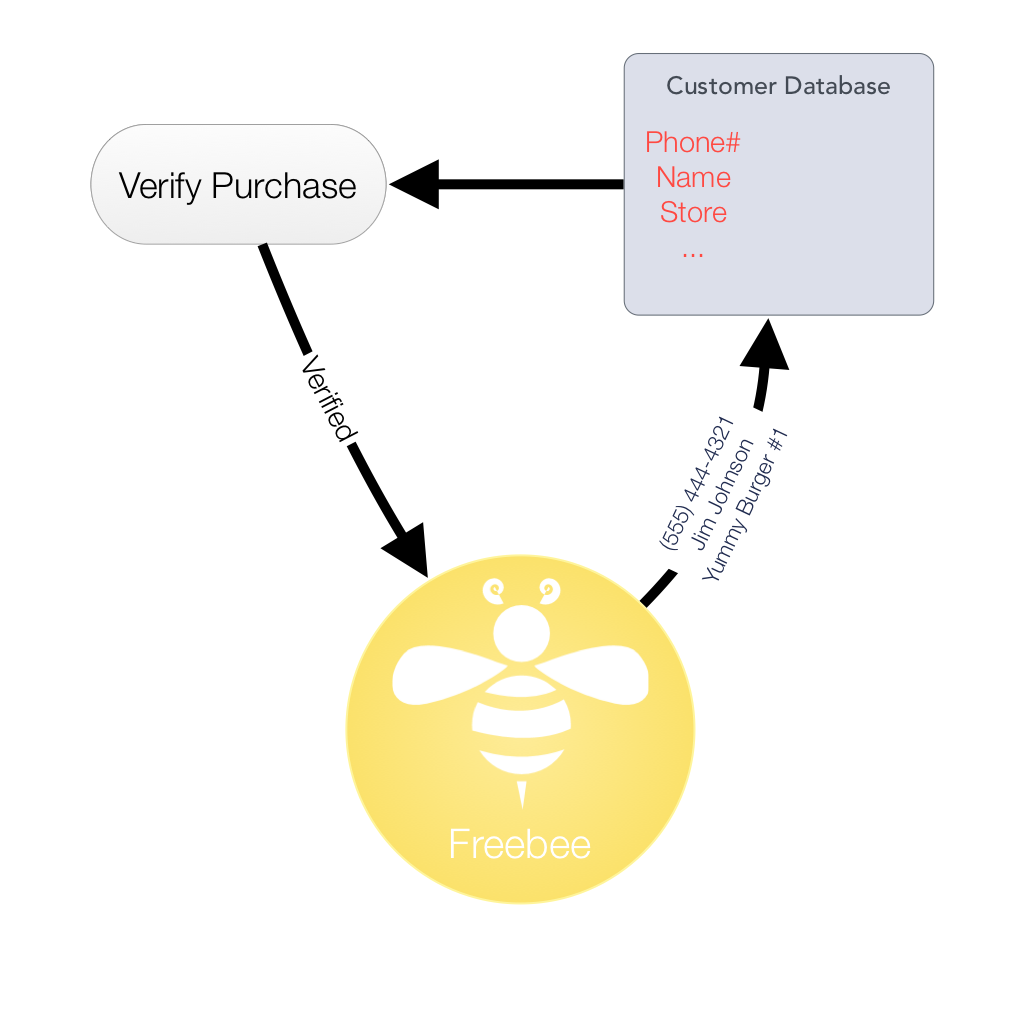
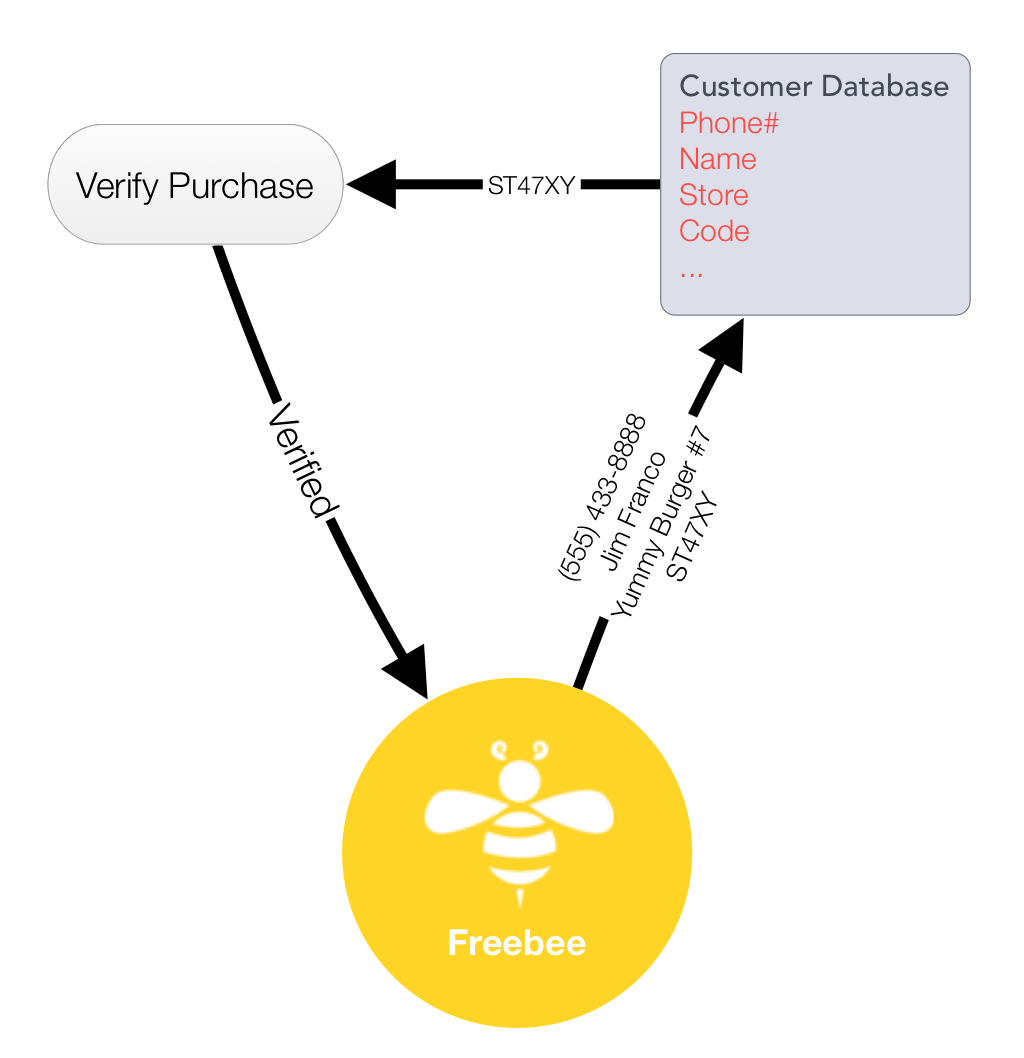
Improved flowchart images.  Added navbar links.

diff --git a/app/assets/stylesheets/flowchart.scss b/app/assets/stylesheets/flowchart.scss
@@ -1,5 +1,5 @@
 .flowchart-img {
-  height: 300px;
+  height: 275px;
 }
 
 .flowchart-title {
@@ -12,11 +12,16 @@
   font-size: 16px;
 }
 
-.flowchart {
+.flowchart-box {
   padding-top: 2px;
   padding-left: 2px;
   // padding-bottom: 5px;
   margin-top: 4px;
   box-shadow: 1px 1px 1px rgb(164,163,147);
   border: thin solid rgba(164,163,147,0.3);
+  background-color: white;
+}
+
+#flowcharts {
+  background-color: rgba(164,163,147,0.3);
 }
